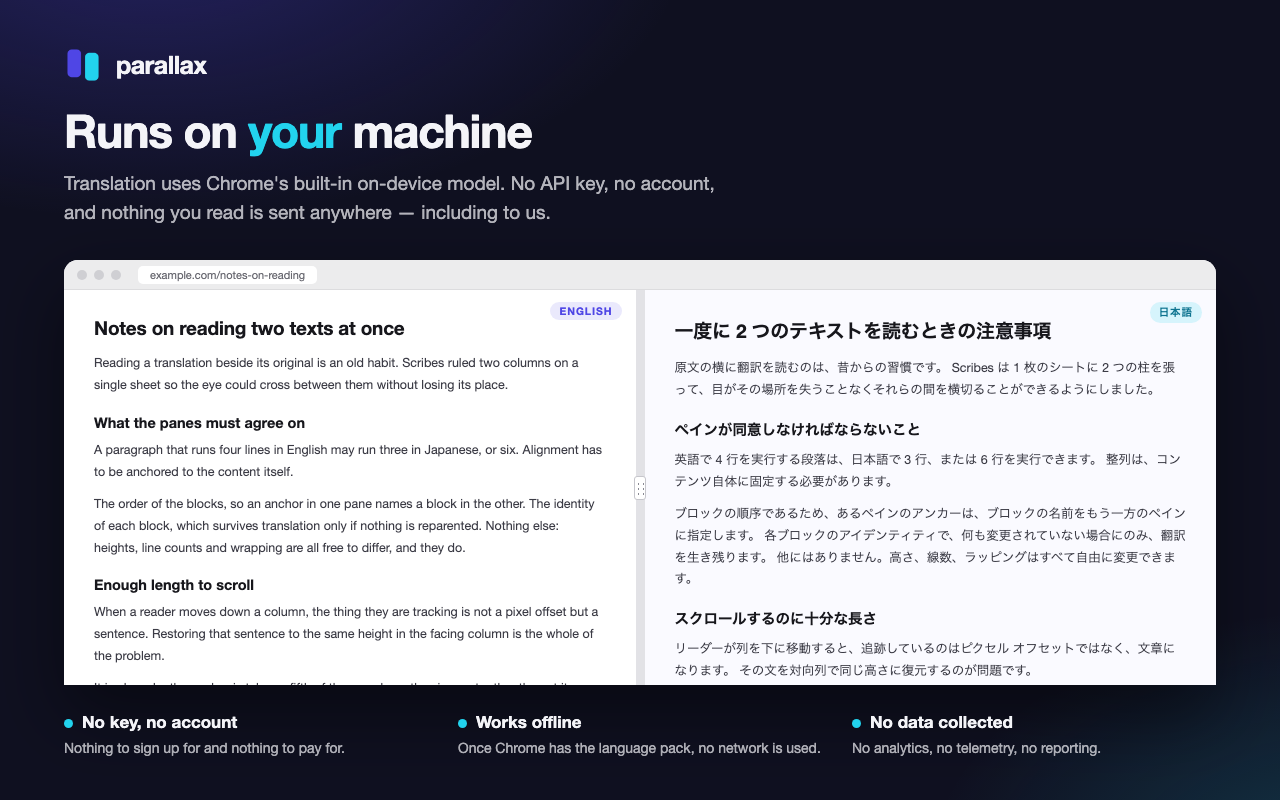
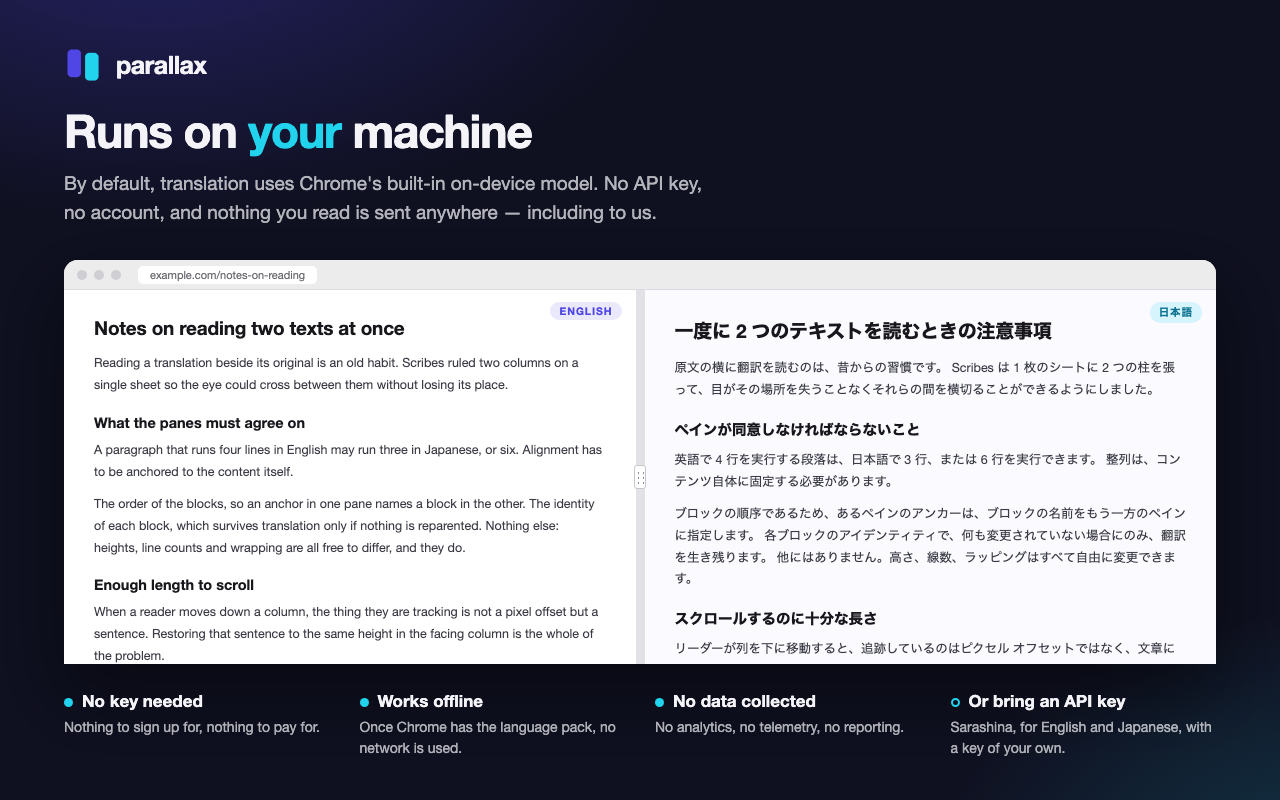
docs: present API translation as an option beside on-device
The listing's fifth image still said that nothing a reader reads is
sent anywhere. That has held only by default since Sarashina could be
chosen, and this store update declares page text as transmitted, so a
reviewer would see the image contradict the declaration. The image now
says on-device is the default and adds the API translator as a fourth
point, drawn with a hollow marker so it reads as a choice rather than
a given.

The detailed description names Sarashina's two costs: links and
emphasis lost in the translated pane, and Japan only. listing.md gains
the steps for updating an existing item, which differ from the first
submission, and its field map now matches the data usage it asks to
declare. The README's layout table had no row for the popup or the
options page, and still described the worker as commands and framing
only.

Images 1 to 4 stay as committed: redrawn with a newer Chrome their
bytes changed but their content did not.

diff --git a/video/src/scenes/Private.tsx b/video/src/scenes/Private.tsx
@@ -39,7 +39,8 @@ const CHART: ReactNode = (
   </>
 );
 
-// The listing's fifth image says the same three things, in the same words.
+// The listing's fifth image says these three things too, and adds the API translator as an
+// option beside them, which this scene does not show.
 const POINTS = [
   {
     label: "No key, no account",

diff --git a/store-assets/build_screenshots.py b/store-assets/build_screenshots.py
@@ -147,10 +147,12 @@ STYLE = f"""
   .point {{ flex: 1; }}
   .point b {{ display: block; font-size: 17px; font-weight: 640; margin-bottom: 6px; }}
   .point span {{ font-size: 14px; line-height: 1.55; opacity: .7; }}
-  .point.on b::before {{
+  .point.on b::before, .point.optional b::before {{
     content: ""; display: inline-block; width: 9px; height: 9px; border-radius: 50%;
-    background: {CYAN}; margin-right: 9px; vertical-align: middle;
+    background: {CYAN}; margin-right: 9px; vertical-align: middle; box-sizing: border-box;
   }}
+  /* Hollow: something the reader can choose, not something that holds regardless. */
+  .point.optional b::before {{ background: transparent; border: 2px solid {CYAN}; }}
 """
 
 
@@ -212,8 +214,8 @@ def page(title: str, sub: str, body: str, points: str = "") -> str:
     """
 
 
-def point(label: str, text: str, on: bool = False) -> str:
-    marker = " on" if on else ""
+def point(label: str, text: str, on: bool = False, optional: bool = False) -> str:
+    marker = " on" if on else " optional" if optional else ""
     return f"<div class='point{marker}'><b>{label}</b><span>{text}</span></div>"
 
 
@@ -242,13 +244,14 @@ SHOTS: dict[str, str] = {
     ),
     "5-private": page(
         "Runs on <em>your</em> machine",
-        "Translation uses Chrome's built-in on-device model. No API key, no account, and "
-        "nothing you read is sent anywhere — including to us.",
+        "By default, translation uses Chrome's built-in on-device model. No API key, no "
+        "account, and nothing you read is sent anywhere — including to us.",
         f'<div class="stage" style="padding-bottom:0">{window()}</div>',
         f"""<div class="points">
-          {point("No key, no account", "Nothing to sign up for and nothing to pay for.", True)}
+          {point("No key needed", "Nothing to sign up for, nothing to pay for.", True)}
           {point("Works offline", "Once Chrome has the language pack, no network is used.", True)}
           {point("No data collected", "No analytics, no telemetry, no reporting.", True)}
+          {point("Or bring an API key", "Sarashina, for English and Japanese, with a key of your own.", optional=True)}
         </div>""",
     ),
 }

diff --git a/store-assets/listing.md b/store-assets/listing.md
@@ -31,8 +31,11 @@ Then, for each release:
    than the usual day or so, and may come back with questions; the justifications below are
    written to be answerable by quoting them.
 
-After approval, an update is the same loop from step 1. Review is quicker for updates that
-do not change the permissions.
+After approval, an update runs the same loop with three differences. Merge to `main` first,
+because the privacy policy URL points there and reviewers read it. Step 3 uploads to the
+existing item instead of creating one: open it in the dashboard, then **Package** → **Upload
+new package**. Steps 4 and 5 are needed only for the fields that changed; the dashboard keeps
+the rest. Review is quicker for updates that do not change the permissions.
 
 ---
 
@@ -107,6 +110,8 @@ KNOWN LIMITATIONS
   "Translate this page again" in the popup.
 • A link to another site ends the split and returns you to where you started.
 • Some sites will not run inside a frame for reasons no permission can change.
+• With Sarashina, links and emphasis inside a paragraph are not kept in the translated
+  pane, and the service accepts requests from Japan only.
 
 Source code: https://github.com/mei28/parallax
 ```
@@ -224,6 +229,6 @@ All drawn by `just screenshots`, into `store-assets/screenshots/`.
 | Privacy practices | Single purpose | see below |
 | Privacy practices | Permission justification | one box per permission, below |
 | Privacy practices | Remote code | No |
-| Privacy practices | Data usage | nothing collected; all three certifications apply |
+| Privacy practices | Data usage | Website content and Authentication information, as under Data usage; all three certifications apply |
 | Privacy practices | Privacy policy URL | `https://github.com/mei28/parallax/blob/main/PRIVACY.md` |
 | Distribution | Visibility / Regions | Public / all |

diff --git a/README.md b/README.md
@@ -41,9 +41,10 @@ Chrome does once and then keeps.
 
 ## Using it
 
-Click the toolbar icon, choose the languages and the split direction, and press **Split this
-page**. `Alt+Shift+P` opens the popup and `Alt+Shift+S` starts or stops a split; a shortcut
-for flipping the direction can be assigned at `chrome://extensions/shortcuts`.
+Click the toolbar icon, choose the translator, the languages and the split direction, and
+press **Split this page**. `Alt+Shift+P` opens the popup and `Alt+Shift+S` starts or stops a
+split; a shortcut for flipping the direction can be assigned at
+`chrome://extensions/shortcuts`.
 
 Esc closes the split. So does dragging the translated pane away.
 
@@ -111,7 +112,9 @@ Load `dist/` at `chrome://extensions` with developer mode on.
 | `src/shared/` | Pure functions only — no DOM, no `chrome.*`. Split geometry, scroll projection, alignment, failure descriptions |
 | `src/content/` | The content script. The only place that touches a page, and where the Translator API is called — it is not available in a service worker |
 | `src/chrome/` | Thin adapters over `chrome.*`, which is what lets `src/shared/` stay pure |
-| `src/background/` | The service worker: keyboard commands and the framing override |
+| `src/background/` | The service worker: keyboard commands, the framing override, and the requests to Sarashina. The only place the API key is read |
+| `src/popup/` | The popup: translator, languages and split direction |
+| `src/options/` | The options page: the Sarashina API key, and the permission to reach the service |
 | `test/` | Mirrors `src/`. jsdom is opted into per file |
 | `video/` | The store promo video, drawn with Remotion. Its scroll sync imports the anchor math from `src/shared/` rather than copying it |
 

diff --git a/store-assets/screenshots.md b/store-assets/screenshots.md
@@ -23,7 +23,7 @@ listing about translation, invented copy is the one thing a reader is entitled t
 | `2-aligned` | The panes are matched by content. A dashed rule is drawn from the same heading in each pane, so a reader can check the claim instead of taking it |
 | `3-adjustable` | The split goes where you drag it, and the grip is visibly a grip |
 | `4-vertical` | The same thing stacked top and bottom |
-| `5-private` | On-device translation, and the three things that follow from it |
+| `5-private` | On-device translation by default and the three things that follow from it, with the API translator as the option beside them |
 | `promo-440x280` | The name and the mark. At that size nothing inside a window would be legible |
 
 ## Editing them
